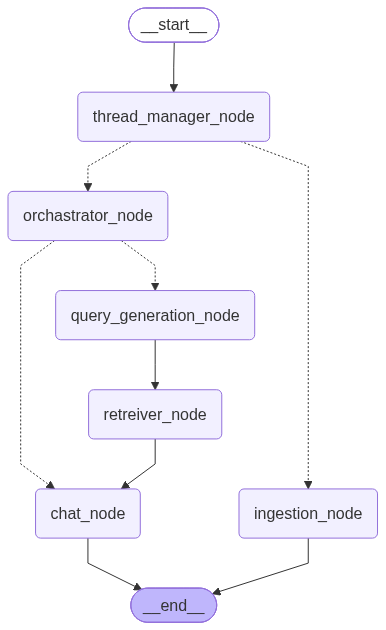
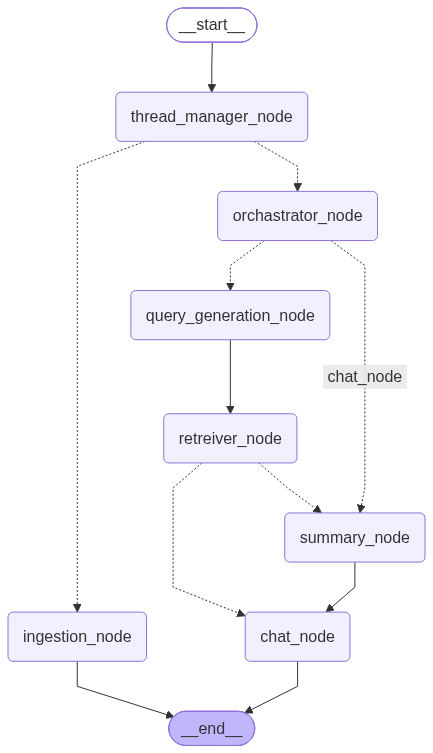
added summarizer node

diff --git a/src/nodes/main_nodes.py b/src/nodes/main_nodes.py
@@ -8,8 +8,8 @@ from src.entity.artifact import DataIngestionArtifact
 from src.llm.llm_loader import get_llm
 from src.retreiver.retreiver import get_retriever
 from langchain_core.messages import SystemMessage
-from src.prompt import QUERY_GENERATION_PROMPT, ORCHESTRATOR_PROMPT, CHAT_PROMPT
-
+from src.prompt import QUERY_GENERATION_PROMPT, ORCHESTRATOR_PROMPT, CHAT_PROMPT, SUMMARY_NODE_PROMPT
+from src.constants import NO_OF_LAST_MESSAGES_TO_KEEP, LENGTH_OF_SUMMARY_GENERATED
 
 async def ingestion_node(state: State):
     try:
@@ -99,3 +99,62 @@ async def chat_node(state: State):
     except Exception as e:
         logger.error("chat_node failed: %s", str(e))
         raise MyException(e, sys)
+    
+
+
+
+async def summary_node(state: State):
+    try:
+        logger.info("=" * 50)
+        logger.info("Summary node started.")
+
+        if len(state.messages) <= NO_OF_LAST_MESSAGES_TO_KEEP:
+            logger.info(
+                "Skipping summary. Messages (%d) <= threshold (%d).",
+                len(state.messages),
+                NO_OF_LAST_MESSAGES_TO_KEEP,
+            )
+            return state
+
+        llm = get_llm()
+        logger.info("LLM initialized successfully.")
+
+        old_messages = state.messages[:-NO_OF_LAST_MESSAGES_TO_KEEP]
+        logger.info(
+            "Messages selected for summarization: %d",
+            len(old_messages),
+        )
+
+        summary_chain = SUMMARY_NODE_PROMPT | llm
+
+        logger.info("Generating conversation summary...")
+
+        response = summary_chain.invoke(
+            {
+                "no_of_words": LENGTH_OF_SUMMARY_GENERATED,
+                "messages": old_messages,
+            }
+        )
+
+        summary_text = response.content
+
+        logger.info("Summary generated successfully.")
+        logger.debug("Summary: %s", summary_text)
+
+        state.messages = (
+            [SystemMessage(content=summary_text)]
+            + state.messages[-NO_OF_LAST_MESSAGES_TO_KEEP:]
+        )
+
+        logger.info(
+            "Conversation compressed successfully. Current message count: %d",
+            len(state.messages),
+        )
+        logger.info("=" * 50)
+
+        return state
+
+    except Exception as e:
+        logger.exception("Error occurred in summary node.")
+        raise MyException(e, sys)
+

diff --git a/src/graphs/builder.py b/src/graphs/builder.py
@@ -10,9 +10,13 @@ from src.nodes.main_nodes import (
     query_generation_node,
     retreiver_node,
     chat_node,
+    summary_node
 )
 from src.nodes.advance_nodes import summerizer, thread_manager_node
-from src.nodes.conditional_nodes import route_entry, route_after_orchastrator
+from src.nodes.conditional_nodes import (route_entry,
+                                         route_after_orchastrator,
+                                         route_summary_node
+                                         )
 from src.memory import get_checkpointer
 
 
@@ -28,7 +32,7 @@ def get_graph():
         workflow.add_node("query_generation_node", query_generation_node)
         workflow.add_node("retreiver_node", retreiver_node)
         workflow.add_node("chat_node", chat_node)
-
+        workflow.add_node("summary_node",summary_node)
         workflow.add_edge(START, "thread_manager_node")
 
         workflow.add_conditional_edges(
@@ -47,12 +51,17 @@ def get_graph():
             route_after_orchastrator,
             {
                 "query_generation_node": "query_generation_node",
-                "chat_node": "chat_node",
+                "chat_node": "summary_node",
             },
         )
 
         workflow.add_edge("query_generation_node", "retreiver_node")
-        workflow.add_edge("retreiver_node", "chat_node")
+        workflow.add_conditional_edges("retreiver_node", route_summary_node,{
+            "summary_node":"summary_node",
+            "chat_node":"chat_node"
+        })
+        workflow.add_edge("summary_node", "chat_node")
+
         workflow.add_edge("chat_node", END)
 
         graph = workflow.compile(checkpointer=get_checkpointer())

diff --git a/src/prompt/__init__.py b/src/prompt/__init__.py
@@ -1,4 +1,4 @@
-from langchain_core.prompts import ChatPromptTemplate
+from langchain_core.prompts import ChatPromptTemplate,PromptTemplate,MessagesPlaceholder
 
 ORCHESTRATOR_PROMPT = """You are an orchestrator that decides whether a user query requires searching a document database.
 Default to require_db_search = true for any questions asking about documents, resumes, PDFs, names, details, background, facts, summaries, or specific information.
@@ -16,4 +16,18 @@ SUMMARIZER_EXTEND_PROMPT = "Existing conversation summary:\n{summary}\n\nExtend 
 CHAT_PROMPT = ChatPromptTemplate.from_messages([
     ("system", "You are a helpful assistant. Answer the user's question clearly and concisely.{context}"),
     ("human", "{question}"),
+])
+
+
+
+
+SUMMARY_NODE_PROMPT = ChatPromptTemplate.from_messages([
+    (
+        "system",
+        "You are an expert conversation summarizer. "
+        "Summarize the given conversation in at most {no_of_words} words "
+        "while preserving all important context, decisions, user preferences, "
+        "tasks, and ongoing discussions. Do not add any new information."
+    ),
+    MessagesPlaceholder(variable_name="messages"),
 ])

diff --git a/src/nodes/conditional_nodes.py b/src/nodes/conditional_nodes.py
@@ -1,5 +1,5 @@
 from src.models.workflow_models import State
-
+from src.constants import NO_OF_LAST_MESSAGES_TO_KEEP
 
 def route_entry(state: State) -> str:
     if state.file_paths:
@@ -10,4 +10,12 @@ def route_entry(state: State) -> str:
 def route_after_orchastrator(state: State) -> str:
     if state.require_db_search:
         return "query_generation_node"
+    return "chat_node"
+
+
+
+def route_summary_node(state:State):
+    if len(state.messages)>=NO_OF_LAST_MESSAGES_TO_KEEP:
+        return "summary_node"
+
     return "chat_node"

diff --git a/src/constants/__init__.py b/src/constants/__init__.py
@@ -22,3 +22,5 @@ MAX_THREADS_PER_USER: int = 2
 CONTENT_TTL_MINUTES: int = 60
 
 NO_OF_LAST_MESSAGES_TO_KEEP: int = 2
+
+LENGTH_OF_SUMMARY_GENERATED:int = 100
